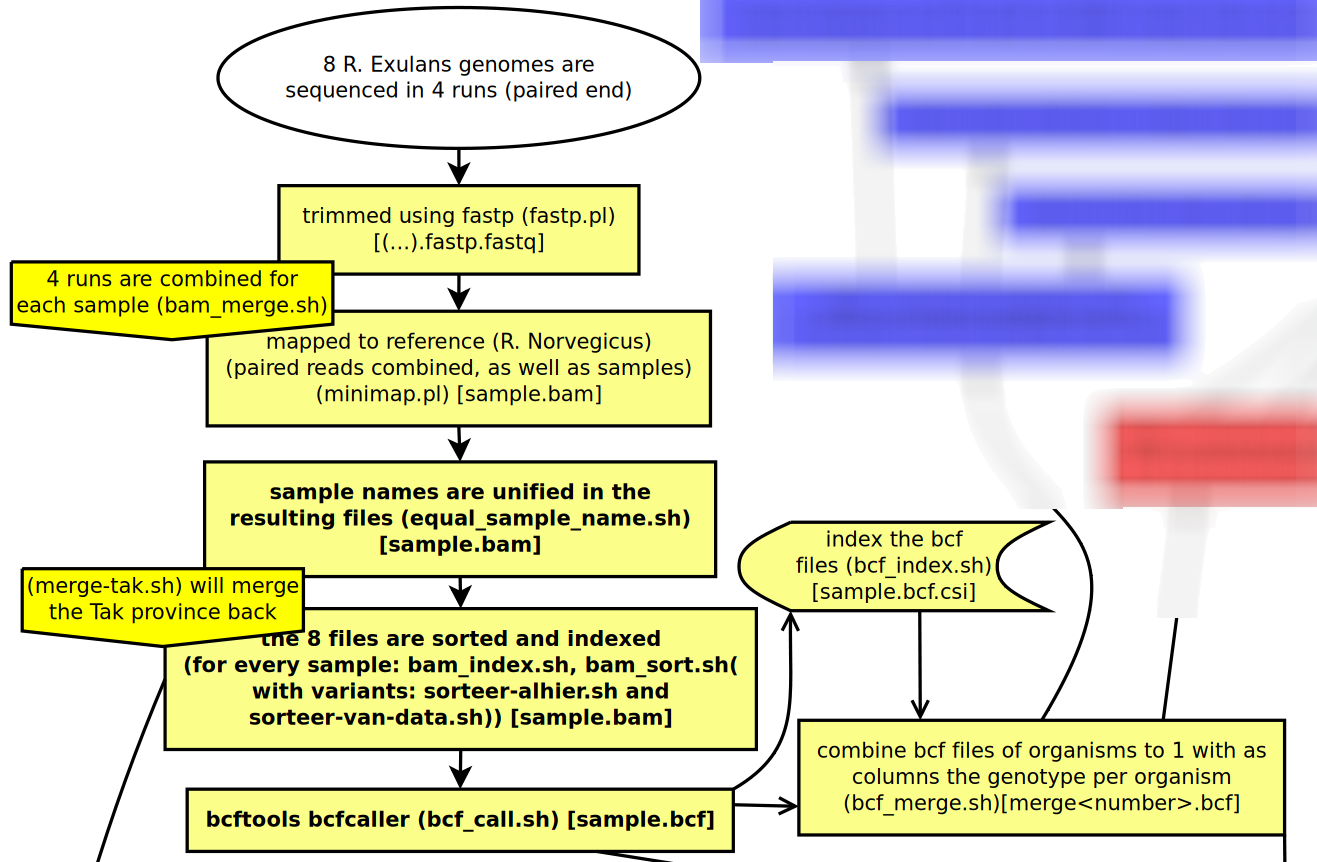
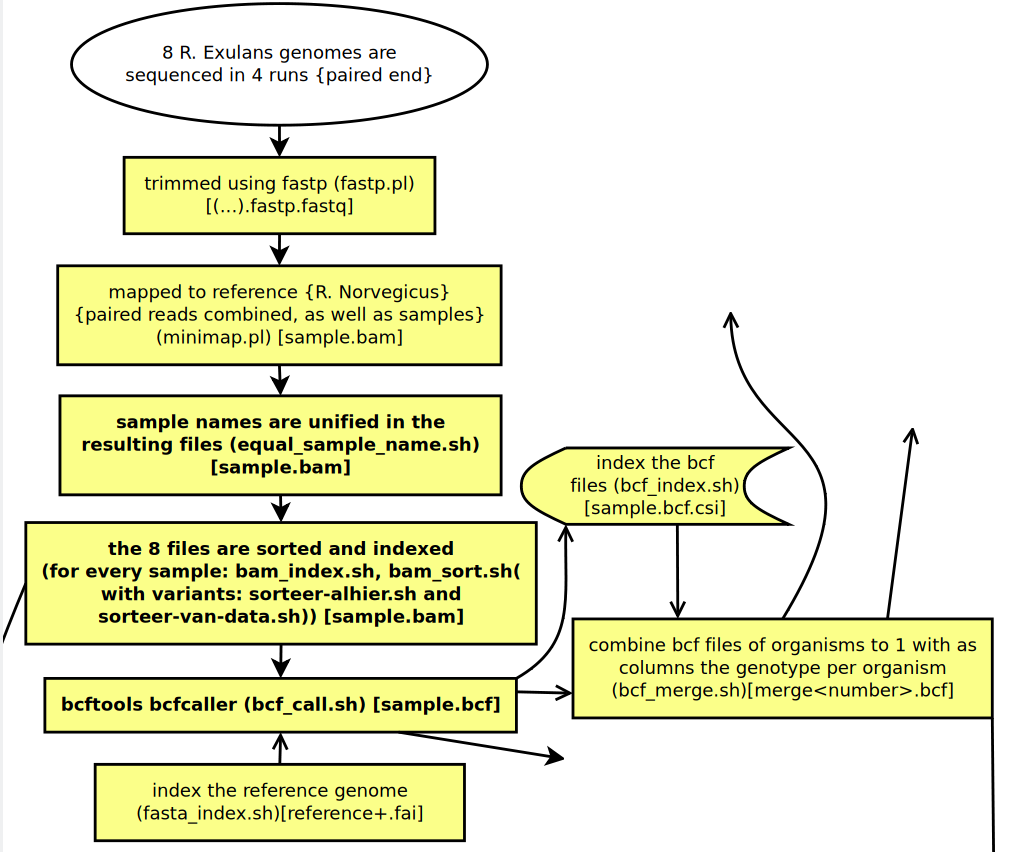
changed the Dockerfile to install all dependencies for fastSTRUCTURE, modified some of the flowchart figures, changed to README of ancestorPopulationStructure to reflect what input and output should be expected, added a script that plots multiple MCA figures, small textual improvements

diff --git a/script/ancestorPopulationStructure/README.md b/script/ancestorPopulationStructure/README.md
@@ -1,7 +1,30 @@
-# poulation structure
+# population structure
 
 To calculate the population structure, and display it, use these scripts.
 Bcf files are needed, that will be converted to bed files, then either pruned to correct for linkage equibrilium or directly inputed to **fastSTRUCTURE/ADMIXTURE**, whereafter the data can be shown as a barplot, or as a map. *(The latter does not always displays exact circle diagrams when working with small proportions.)*
 Please note that population estimate programs (*almost always*) work by the user inputing the number of ancestor populations it expected. This number is called *K*. If one does not know or suspect the number of ancestor populations, generally the program is runned for all values *K* = from 2 to (number of samples/current populations-1). Afterwards the results contain cross-validation errors(for ADMIXTURE) or Marginal Likelihood which can be used to determine, the best value of *K*, of course in cooperation with personal analysis of the results.
 See also the flowchart:
 ![flowchart](../../doc/flowchart/ancestorPopulationStructure.png?raw=true)
+
+# scripts arguments/input
+- thin_marker.sh:
+  - the (bed) file (without extension) that should be pruned. (output will be filename.pruned.bed) __(defaults merge3)__
+- faststructure.sh:
+  1. the sample file (without extension) __(defaults to merge3)__
+  2. number of ancestor populations __(defaults to 4)__
+  3. seed (number to feed the random generator, to obtain reproducable results) __(defaults to 469)__
+  4. number of threads to use __(defaults to 1)__
+- combined2FoCaPSNPs:
+  - Input is a combined vcf file from stdin, that is filtered and output on stdout
+- bcf2bed.sh:
+  - the bcf file (without extension) to be converted to a bed file (output will include filename.bed) __(defaults merge3)__
+- ancestor_map.R:
+  - the arguments are the .Q files that describe the admixture proportions (output filename-map.png) __(defaults all *K* that the latest .Q file refers to)__
+- ancestor_barplot.R:
+  - like ancestor_map.R (output {admixture/faststructure}{rest of file name}.png) __(defaults like ancestor _map.R)__
+- admixture.sh:
+  1. the sample file (without extension) __(defaults to merge3)__
+  2. number of ancestor populations __(defaults to 4)__
+  3. runs (number number of runs of bootstrapping and cross validation) __(defaults to 10)__
+  4. seed (number to feed the random generator, to obtain reproducable results) __(defaults to 469)__
+  5. number of threads to use __(defaults to 1)__

diff --git a/script/README.md b/script/README.md
@@ -1,5 +1,20 @@
 # the actual scripts
 
+## Scripts in this directory:
+
+telegram_message.R provides a possibility to allow telegram messages from bash scripts. Running it as bash, telegram_message.R could have one argument (the message itself that should be sent, else the message will be NA)
+as bash script it modifies the files in the repo in a manner that the secret token and chat id are applied to files that require them.
+These values are inputed by `read` so no argument is required
+SNPextract.R could accept a lot of arguments:
+1. number of required SNPs (defaults 100)
+2. database file (defaults system globbing /d\*/d\*/eight.db)
+3. sample-enum file (defaults system globbing /d\*/d\*/sample-enum.csv)
+4. blast directory (defaults current directory)
+5. SNP directory (defaults SNP-files in HOME directory)
+6. posfix for output names (default to data)
+
+## General information
+
 Scripts that use a reference genome, will work with the REF environment variable, if available. The shell scripts will search for the path in the files.yml file, if they can find it.
 
 Many scripts take some time to run(especially in scripts/readsToVariants folder). Because of this the slurm system is used.
@@ -40,6 +55,7 @@ Next to that the bigger flowchart is structured in the following ways:
   - output filename that contains *sample* is symbolical. Then the output file(s) will be the sample name, the same applies to postfix.
   - output containing \<this characters\> means a number
   - output containing {a/b}c ac and bc
+  - output containing \+.ext means the filename and .ext added.
   - {} outside of output brackets means more explained about that box
 * arrows
   - normal arrows represent flow of data
